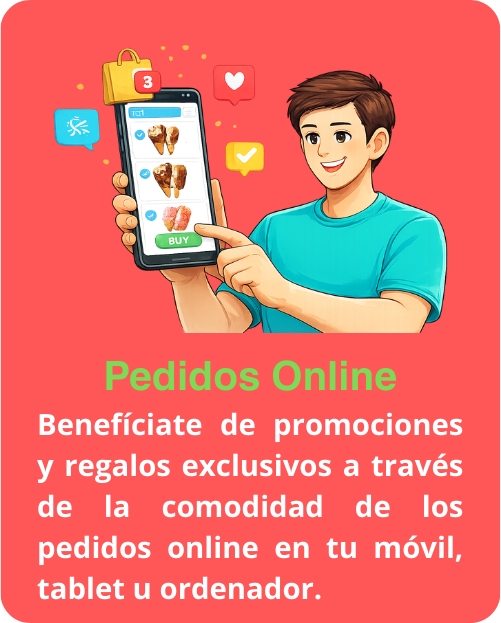
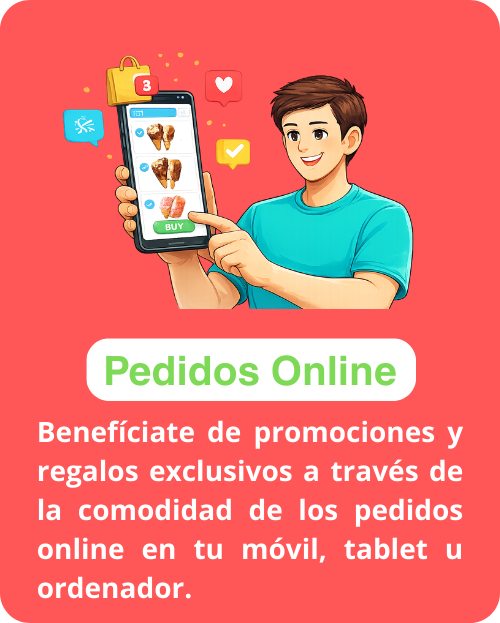
ajustamos el texto de las imagenes de servicios

diff --git a/index.html b/index.html
@@ -190,16 +190,16 @@
 
   <div class="servicios-grid" aria-label="Servicios que ofrecemos">
     <figure class="servicio-card">
-      <img src="/recursos/imagenes/reparto1.png" alt="Servicio de reparto" />
+      <img src="/recursos/imagenes/reparto.png" alt="Servicio de reparto" />
     </figure>
     <figure class="servicio-card">
-      <img src="/recursos/imagenes/equipamiento1.png" alt="Servicio de equipamiento" />
+      <img src="/recursos/imagenes/equipamiento.png" alt="Servicio de equipamiento" />
     </figure>
     <figure class="servicio-card">
-      <img src="/recursos/imagenes/profesionales1.png" alt="Servicio para profesionales" />
+      <img src="/recursos/imagenes/profesionales.png" alt="Servicio para profesionales" />
     </figure>
     <figure class="servicio-card">
-      <img src="/recursos/imagenes/pedidosonline1.png" alt="Servicio de pedidos online" />
+      <img src="/recursos/imagenes/pedidosonline.png" alt="Servicio de pedidos online" />
     </figure>
   </div>
 </section>
